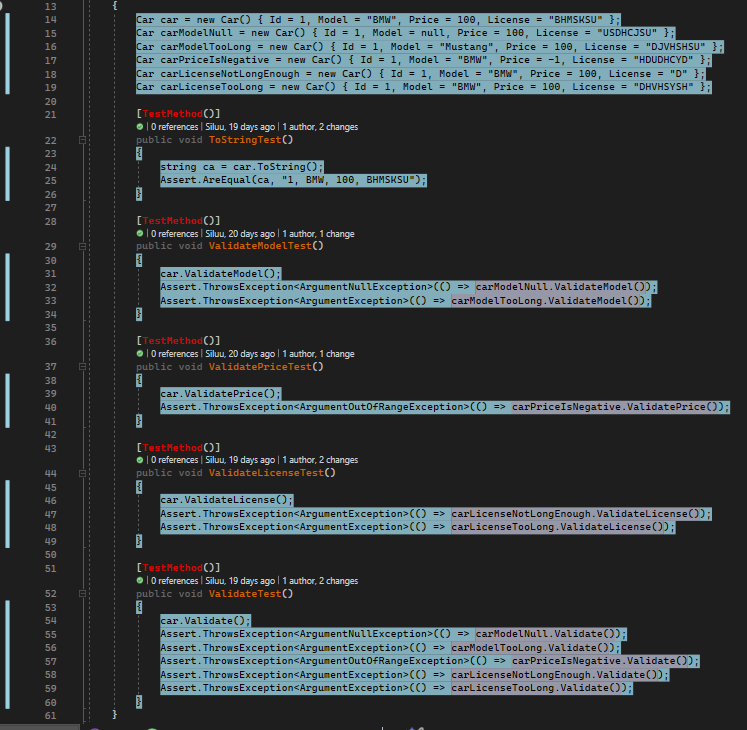
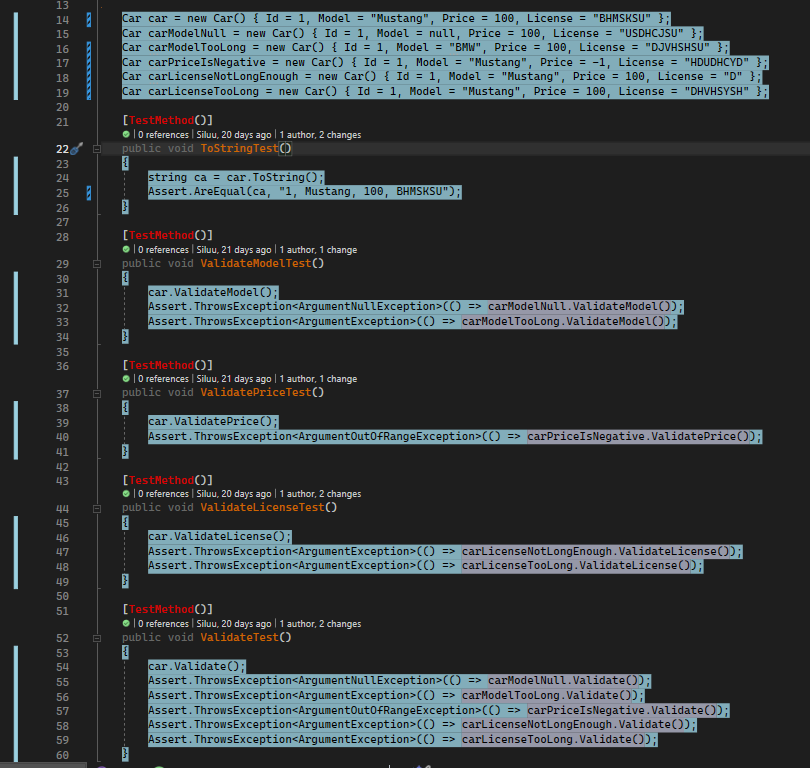
Last push

diff --git a/FirstObOpgUnitTests/CarTests.cs b/FirstObOpgUnitTests/CarTests.cs
@@ -11,18 +11,18 @@ namespace FirstObOpgUnit.Tests
     [TestClass()]
     public class CarTests
     {
-        Car car = new Car() { Id = 1, Model = "BMW", Price = 100, License = "BHMSKSU" };
+        Car car = new Car() { Id = 1, Model = "Mustang", Price = 100, License = "BHMSKSU" };
         Car carModelNull = new Car() { Id = 1, Model = null, Price = 100, License = "USDHCJSU" };
-        Car carModelTooLong = new Car() { Id = 1, Model = "Mustang", Price = 100, License = "DJVHSHSU" };
-        Car carPriceIsNegative = new Car() { Id = 1, Model = "BMW", Price = -1, License = "HDUDHCYD" };
-        Car carLicenseNotLongEnough = new Car() { Id = 1, Model = "BMW", Price = 100, License = "D" };
-        Car carLicenseTooLong = new Car() { Id = 1, Model = "BMW", Price = 100, License = "DHVHSYSH" };
+        Car carModelTooLong = new Car() { Id = 1, Model = "BMW", Price = 100, License = "DJVHSHSU" };
+        Car carPriceIsNegative = new Car() { Id = 1, Model = "Mustang", Price = -1, License = "HDUDHCYD" };
+        Car carLicenseNotLongEnough = new Car() { Id = 1, Model = "Mustang", Price = 100, License = "D" };
+        Car carLicenseTooLong = new Car() { Id = 1, Model = "Mustang", Price = 100, License = "DHVHSYSH" };
 
         [TestMethod()]
         public void ToStringTest()
         {
             string ca = car.ToString();
-            Assert.AreEqual(ca, "1, BMW, 100, BHMSKSU");
+            Assert.AreEqual(ca, "1, Mustang, 100, BHMSKSU");
         }
 
         [TestMethod()]

diff --git a/FirstObOpgUnit/Car.cs b/FirstObOpgUnit/Car.cs
@@ -24,7 +24,7 @@ namespace FirstObOpgUnit
             {
                 throw new ArgumentNullException("Model is null.");
             }
-            if (Model.Length >= 4)
+            if (Model.Length < 4)
             {
                 throw new ArgumentException("Model is empty or too long.");
             }
@@ -32,7 +32,7 @@ namespace FirstObOpgUnit
 
         public void ValidatePrice()
         {
-            if (Price <= 0)
+            if (Price < 0)
             {
                 throw new ArgumentOutOfRangeException("Price is negative.");
             }
